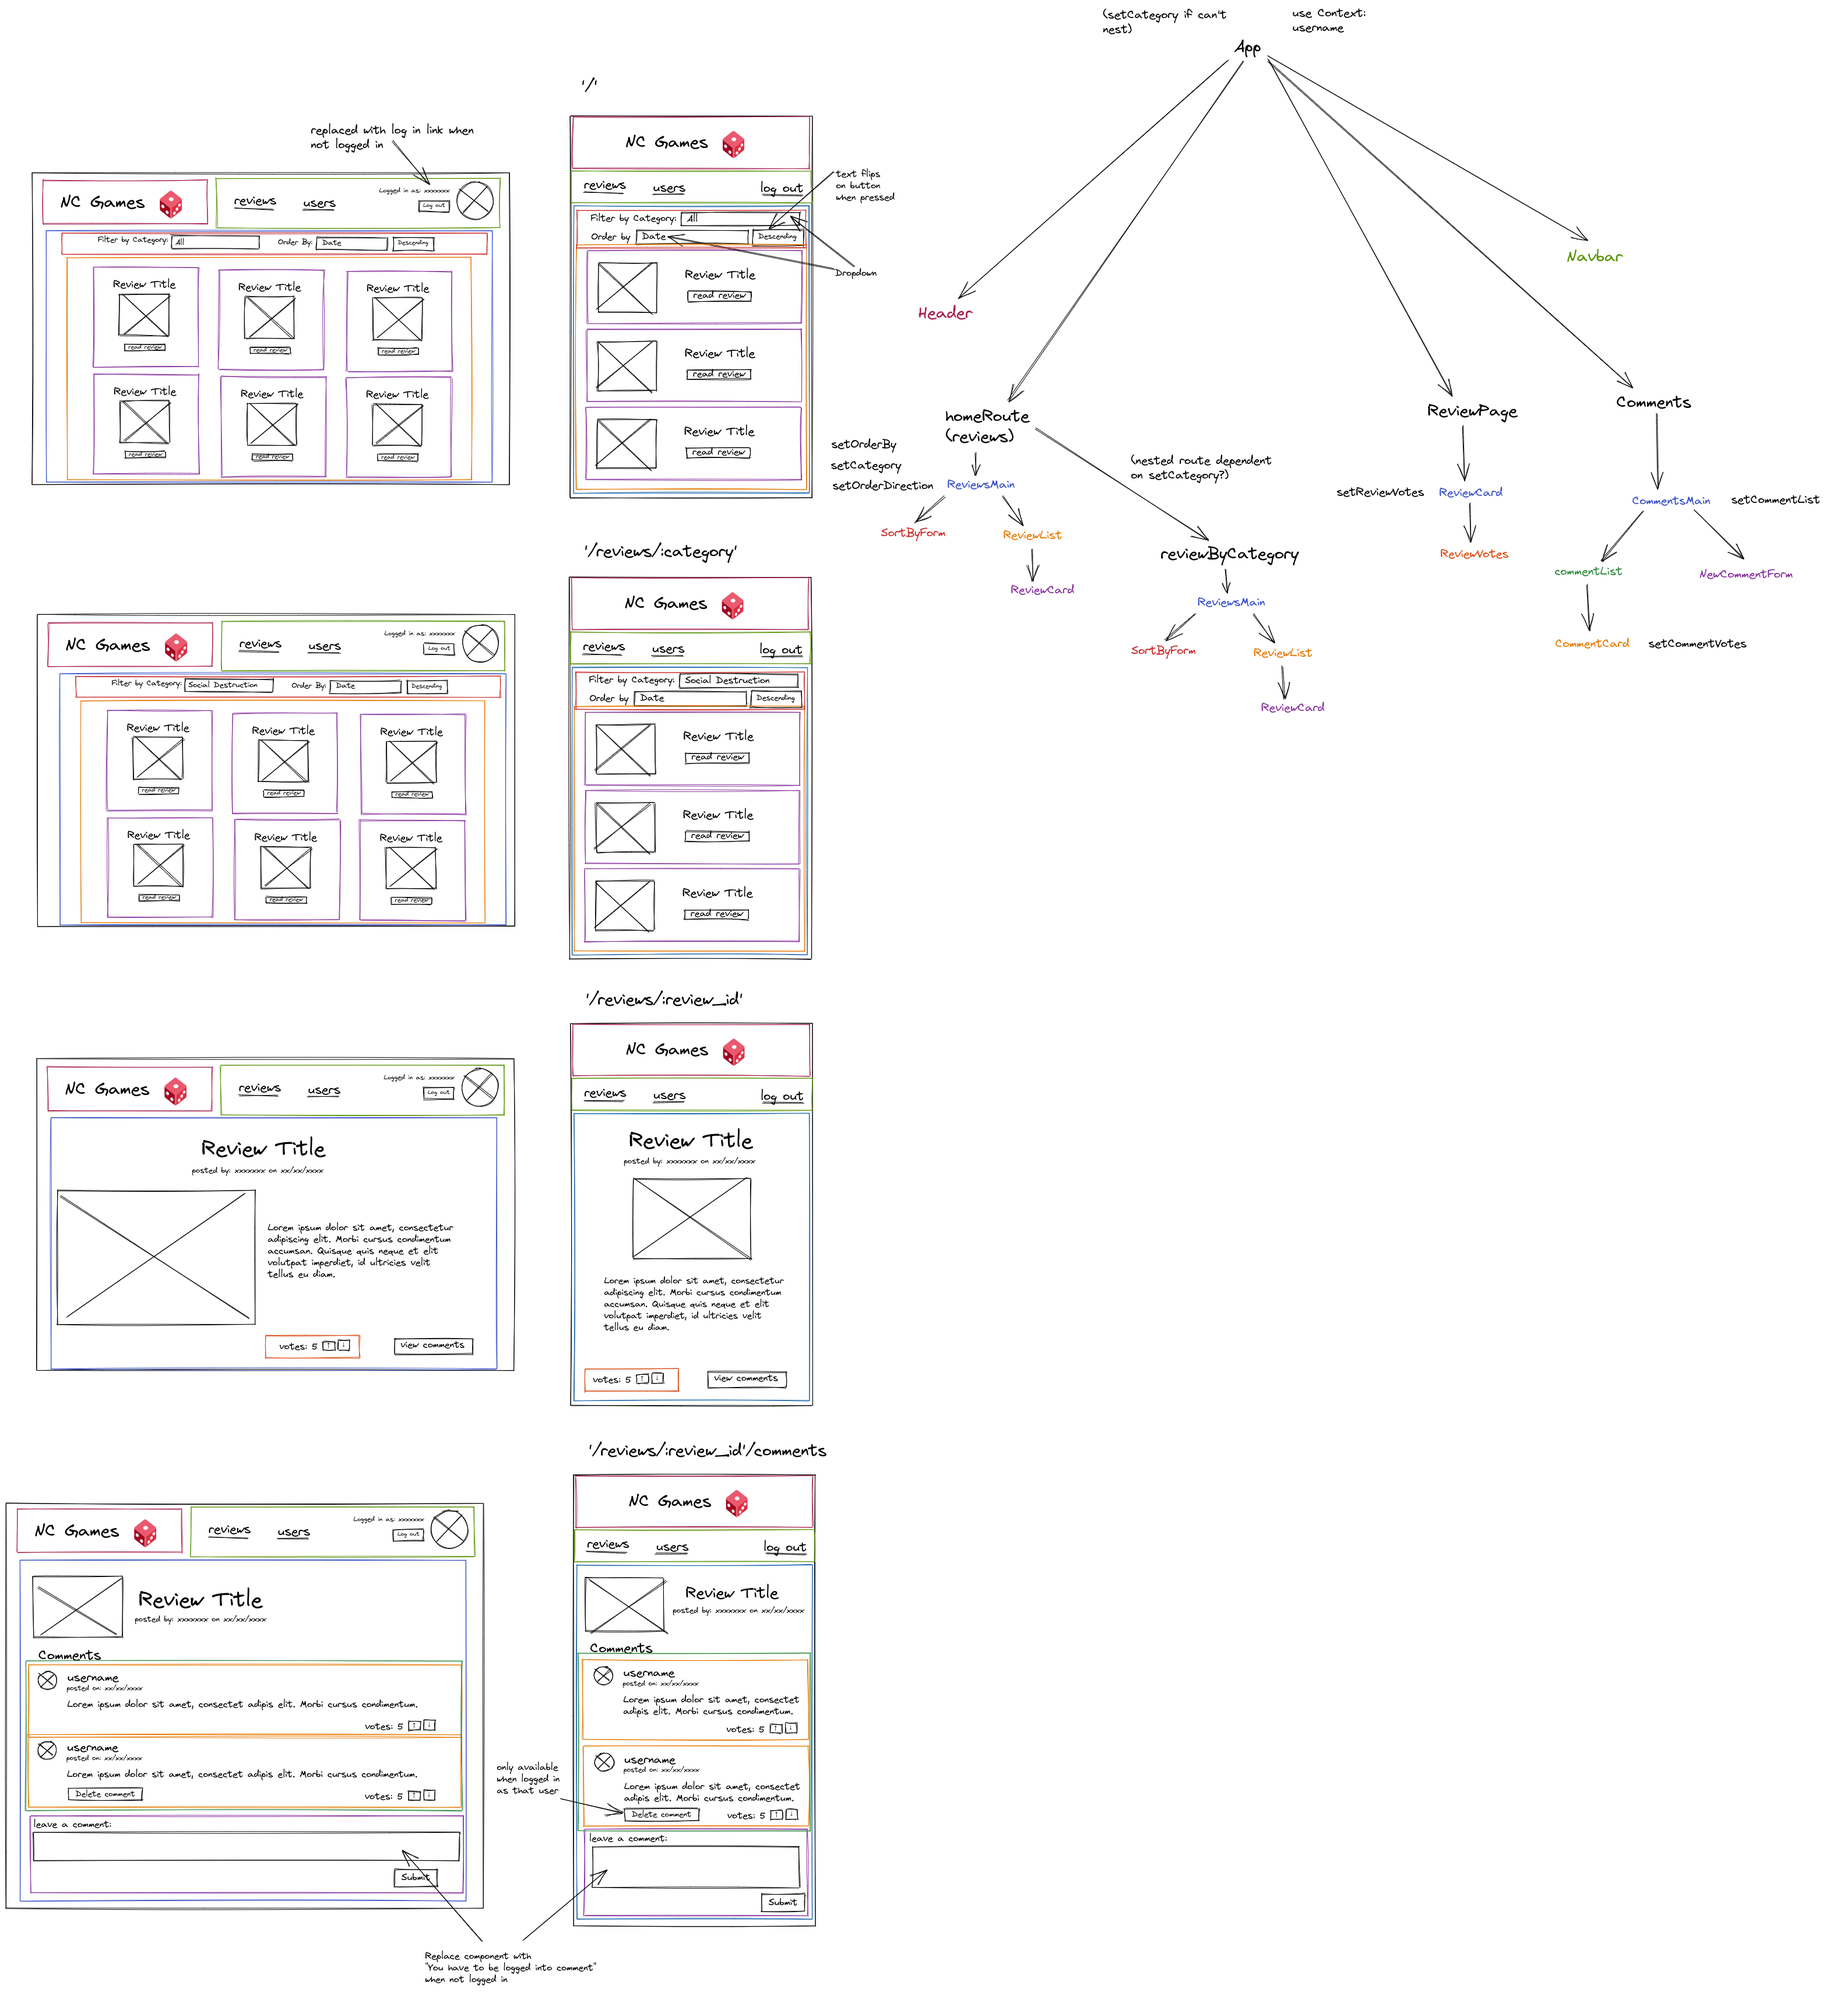
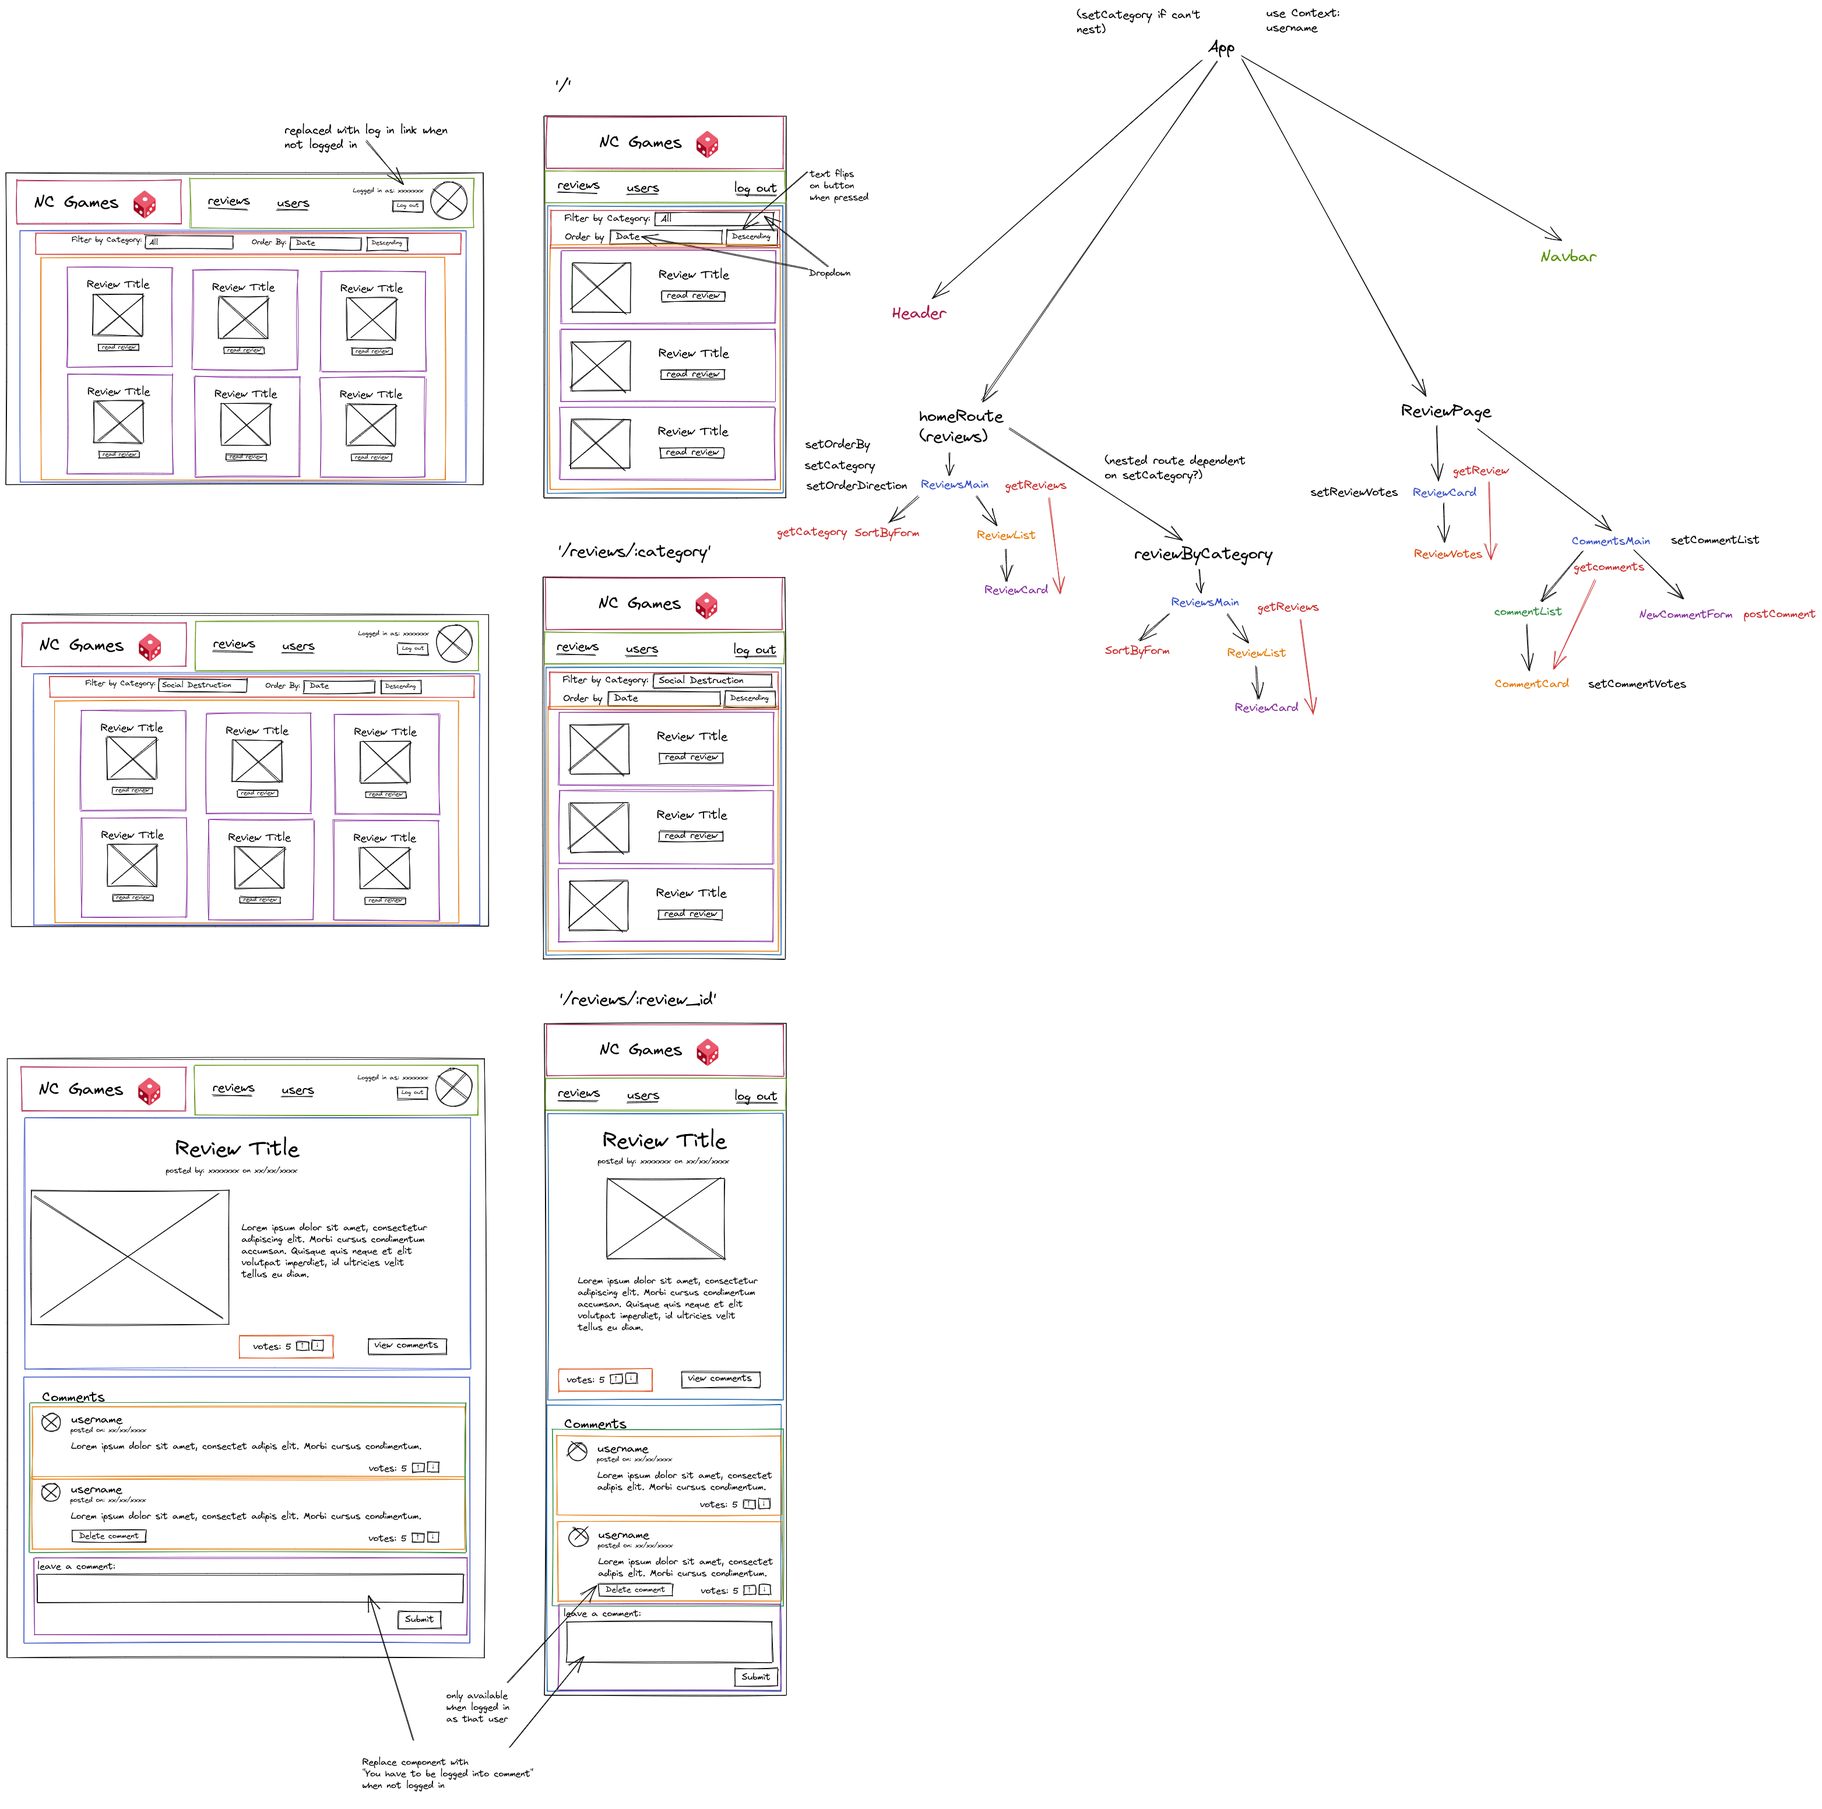
add review list to homepage

diff --git a/src/components/SortByForm.jsx b/src/components/SortByForm.jsx
@@ -1,0 +1,34 @@
+import { useEffect, useState } from "react"
+import { getCategories } from "../axios"
+
+export default function SortByForm ({ setOrderBy, setCategory }) {
+    const [ filterCategories, setFilterCategories ] = useState([])
+
+    useEffect(() => {
+        getCategories()
+        .then(({ data }) => {
+            setFilterCategories(data.categories)
+        })
+    }, [])
+
+    return (
+        <form className="sort-by-form">
+            <label htmlFor="category-filter">Filter by Category</label>
+            <select name="category" id="category-filter">
+                <option value="">all</option> 
+                {filterCategories.map((category, i) => {
+                    const categoryName = category.slug.replaceAll("-", " ")
+                    return <option key={i} value={categoryName}>{categoryName}</option>
+                })}   
+            </select> <br />
+            <label htmlFor="sort-options">Order By</label>
+            <select name="sort" id="sort-options">
+                <option value="created_at">date</option>
+                <option value="title">title</option>
+                <option value="owner">review author</option>
+                <option value="votes">number of votes</option>
+            </select>
+            <button>Descending</button>
+        </form>
+    )
+}

diff --git a/src/pages/Homepage.css b/src/pages/Homepage.css
@@ -1,0 +1,63 @@
+.sort-by-form {
+    padding: 10px
+}
+
+.sort-by-form select {
+    margin: 5px
+}
+
+.review-card img {
+    width: 110px;
+    height: 75px;
+}
+
+.review-card {
+    display: grid;
+    grid-template-columns: 125px 1fr;
+    padding: 20px;
+    align-items: center;
+}
+
+.review-card h3 {
+    font-size: 1rem;
+    padding-bottom: 10px
+}
+
+.review-card button {
+    min-width: 100px;
+}
+
+@media screen and (min-width: 600px) and (max-width: 1049px){
+    .review-card {
+        display: flex;
+        flex-direction: column;
+    }
+
+    .review-card img {
+        width: 300px;
+        height: 200px;
+    }
+    
+    .review-list {
+        display: grid;
+        grid-template-columns: 1fr 1fr
+    }
+}
+
+@media screen and (min-width: 1050px) {
+    .review-card {
+        display: flex;
+        flex-direction: column;
+    }
+
+    .review-card img {
+        width: 300px;
+        height: 200px;
+    }
+    
+    .review-list {
+        display: grid;
+        grid-template-columns: 1fr 1fr 1fr
+    }
+}
+

diff --git a/src/App.js b/src/App.js
@@ -1,10 +1,30 @@
+import { useState } from 'react';
+import { BrowserRouter, Route, Routes } from 'react-router-dom';
+import { UserContext } from './contexts/User';
 import './App.css';
+import Homepage from './pages/Homepage';
+import Header from './components/Header';
+import NavBar from './components/NavBar';
 
 function App() {
+  const [ username, setUsername ] = useState("SallyB")
   return (
-    <div className="App">
-
-    </div>
+    <BrowserRouter>
+      <UserContext.Provider value={{ username, setUsername }}>
+        <div className="App">
+          <div className='title-banner'>
+            <Header />
+            {username && <p className='signed-in'>Signed in as {username}</p>}
+            <NavBar />
+          </div>
+          <main>
+            <Routes>
+              <Route path="/" element={<Homepage />}/>
+            </Routes>
+          </main>
+        </div>
+        </UserContext.Provider>
+    </BrowserRouter>
   );
 }
 

diff --git a/src/components/ReviewList.jsx b/src/components/ReviewList.jsx
@@ -1,0 +1,20 @@
+import { useEffect, useState } from "react"
+import { getReviewList } from "../axios"
+import ReviewCard from "./ReviewCard"
+
+export default function ReviewList() {
+    const [ reviewList, setReviewList ] = useState([])
+
+    useEffect(() => {
+        getReviewList().then(({data}) => {
+            console.log(data.reviews)
+            setReviewList(data.reviews)
+        })
+    }, [])
+ 
+    return <section className="review-list">
+        {reviewList.map(review => {
+            return <ReviewCard key={review.review_id} review={review}/>
+        })}
+    </section>
+}

diff --git a/src/pages/Homepage.jsx b/src/pages/Homepage.jsx
@@ -1,0 +1,16 @@
+import { useState } from "react"
+import ReviewList from "../components/ReviewList"
+import SortByForm from "../components/SortByForm"
+import "./Homepage.css"
+
+export default function Homepage () {
+    const [ orderBy, setOrderBy ] = useState("desc")
+    const [ category, setCategory ] = useState()
+    return (
+        <main>
+            <SortByForm setOrderBy={setOrderBy} setCategory={setCategory}/>
+            <ReviewList />
+        </main>
+    )
+
+}

diff --git a/src/components/ReviewCard.jsx b/src/components/ReviewCard.jsx
@@ -1,0 +1,10 @@
+export default function ReviewCard ({ review }) {
+    const { title, owner, category, review_img_url, created_at, votes, review_body, comment_count} = review
+    return <div className="review-card">
+        <img src={review_img_url} alt="review img" />
+        <div className="review-selection">
+            <h3>{title}</h3>
+            <button>Read Review</button>   
+        </div>
+    </div>
+}

diff --git a/src/components/NavBar.jsx b/src/components/NavBar.jsx
@@ -1,0 +1,13 @@
+import { Link } from "react-router-dom"
+import "./NavBar.css"
+
+export default function NavBar() {
+    return (
+        <nav>
+            <ul>
+                <li><Link to="/">Home</Link></li>
+                <li><Link to="">Log out</Link></li>
+            </ul>
+        </nav>
+    )
+}

diff --git a/src/axios.js b/src/axios.js
@@ -1,0 +1,13 @@
+import axios from "axios";
+
+const api  = axios.create(({
+    baseURL: "https://sb-nc-games-app.herokuapp.com/api/"
+}))
+
+export function getCategories() {
+    return api.get("categories")
+}
+
+export function getReviewList() {
+    return api.get("reviews")
+}

diff --git a/src/components/Header.jsx b/src/components/Header.jsx
@@ -1,0 +1,11 @@
+import dice from "../images/dice.png"
+import "./Header.css"
+
+export default function Header () {
+    return (
+        <header>
+            <h1>NC Games</h1>
+            <img src={dice} alt="a red die" />
+        </header>
+    )
+}

diff --git a/src/components/NavBar.css b/src/components/NavBar.css
@@ -1,0 +1,16 @@
+nav {
+    background: rgb(238, 238, 238);
+    border-radius: 25px;
+}
+
+nav ul{
+    display: flex;
+    flex-direction: row;
+    justify-content: space-between;
+    padding: 10px 50px 10px
+    
+}
+
+li {
+    list-style: none;
+}

diff --git a/src/App.css b/src/App.css
@@ -1,3 +1,22 @@
+* {
+  margin: 0;
+  padding: 0
+}
+
 .App {
   text-align: center;
 }
+
+.signed-in {
+  font-size:0.75rem;
+}
+
+/* 
+.title-banner {
+  position: fixed;
+  width: 100%
+}
+
+main {
+  margin-top: 60px
+} */

diff --git a/src/components/Header.css b/src/components/Header.css
@@ -1,0 +1,11 @@
+header {
+    padding: 20px;
+    display: flex;
+    justify-content: center;
+    align-items: center;
+}
+
+header img {
+    width: 50px;
+    padding-left: 20px
+}
